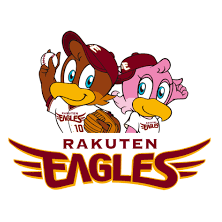
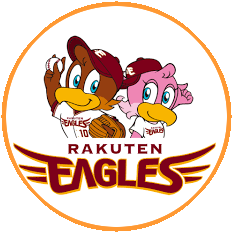
イメージ画像の設定変更

Changed region(s): [[0.0, 0.0, 1.0, 1.0]]

diff --git a/index.html b/index.html
@@ -11,7 +11,7 @@
   <body>
     <div class="layout">
       <div class="sub_content">
-        <img class="team_image" src="images/team_image2.png" alt="楽天チームロゴ">
+        <img class="team_image" src="images/team_image.png" alt="楽天チームロゴ">
         <div class="select_content">チーム順位</div>
         <a href="#">投手成績</a>
         <a href="#">野手成績</a>
